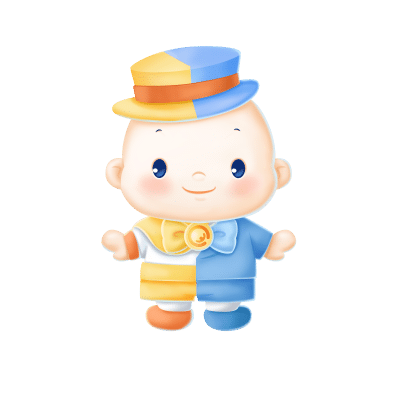
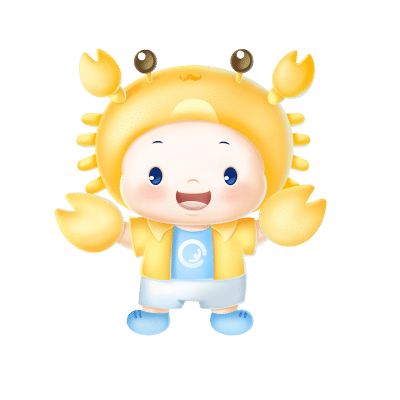
feat: 完善抽卡弹窗

Changed region(s): [[0.12, 0.09, 0.84, 0.84]]

diff --git a/src/components/Prize/index.jsx b/src/components/Prize/index.jsx
@@ -1,42 +1,87 @@
 import { useNavigate } from 'react-router-dom';
 
 import { NftCard, Btn } from '@/components';
+import { idMap, getIsRedpacket } from '@/components/const';
 
 import Poster from './Poster';
 
 import styles from './index.module.less';
 
-const Main = ({ isShare, index }) => {
-  if (isShare) {
-    return <Poster />;
-  }
-  return <NftCard index={12} />;
-};
+// 抽卡入口的卡片有分享，红包无分享
+// 兑换入口的龙卡无分享
 
-const Prize = ({ isShare }) => {
-  const navigate = useNavigate();
-
-  return (
-    <div className={styles.prize}>
-      <div className={styles.animation}>
-        <img className={styles.bg} src="/imgs/prize/bg.png" />
-        <div>
-          <img className={styles.star} src="/imgs/prize/star.png" alt="星星" />
-          <img className={styles.star} src="/imgs/prize/star.png" alt="星星" />
-          <img className={styles.star} src="/imgs/prize/star.png" alt="星星" />
-          <img className={styles.star} src="/imgs/prize/star.png" alt="星星" />
-        </div>
-      </div>
-      <div className={styles.main}>
+const Title = ({ id }) => {
+  if (id > 20) {
+    return (
+      <>
         <h1>恭喜获得</h1>
-        <h2>隐藏款龙年限定NFT丁丁</h2>
-        <Main isShare={isShare} index={2} />
+        <h2>{idMap[id]?.name}</h2>
+      </>
+    );
+  }
+  return <h1>恭喜获得{idMap[id]?.name || '默认星座'}</h1>;
+};
+const Main = ({ isShare, id }) => {
+  const isRedpacket = getIsRedpacket(id);
+
+  if (isShare && !isRedpacket) {
+    return (
+      <>
+        <Poster id={id} />
         <div className={styles.share}>
-          长按保存图片
+          长按上方保存图片
           <br />
           快和你的好友分享吧!
         </div>
-        <Btn onClick={() => navigate('/my')} fill>
+      </>
+    );
+  }
+
+  return <NftCard id={id} />;
+};
+const Animation = () => {
+  return (
+    <div className={styles.animation}>
+      <img className={styles.bg} src="/imgs/prize/bg.png" />
+      <div>
+        <img className={styles.star} src="/imgs/prize/star.png" alt="星星" />
+        <img className={styles.star} src="/imgs/prize/star.png" alt="星星" />
+        <img className={styles.star} src="/imgs/prize/star.png" alt="星星" />
+        <img className={styles.star} src="/imgs/prize/star.png" alt="星星" />
+      </div>
+    </div>
+  );
+};
+const Prize = ({ isShare, id, isMerge, children }) => {
+  const navigate = useNavigate();
+  const isRedpacket = getIsRedpacket(id);
+
+  return (
+    <div className={styles.prize}>
+      <Animation />
+      <div className={styles.main}>
+        <Title id={id} />
+
+        <Main isShare={isShare} id={id} />
+
+        {isRedpacket && (
+          <Btn
+            className={styles.btn}
+            onClick={() => {
+              console.log('红包封面地址：', idMap[i]?.url);
+            }}
+            fill
+          >
+            解锁红包封面
+          </Btn>
+        )}
+        {isMerge && (
+          <Btn className={styles.btn} onClick={() => {}} fill>
+            解锁龙年丁丁红包封面
+          </Btn>
+        )}
+        {children}
+        <Btn className={styles.btn} onClick={() => navigate('/my')} fill>
           我的保护力藏品
         </Btn>
       </div>

diff --git a/src/pages/My/Top.jsx b/src/pages/My/Top.jsx
@@ -1,15 +1,21 @@
+import { useEffect, useRef, useState } from 'react';
+
 import { ProgressCircle } from 'antd-mobile';
 
-import { Btn } from '@/components';
+import { Btn, Mask, Prize } from '@/components';
 
 import styles from './index.module.less';
 
-const Top = () => {
+const Top = ({ num = 11 }) => {
+  const [open, setOpen] = useState(false);
+  const [showRed, setShowRed] = useState(false);
+  const limitedNum = num > 12 ? 12 : num;
+
   return (
     <div className={styles.container}>
       <div className={styles.progressBar}>
         <ProgressCircle
-          percent={50}
+          percent={(limitedNum / 12) * 100}
           style={{
             '--size': '80px',
             '--track-width': '16px',
@@ -17,7 +23,7 @@ const Top = () => {
             '--fill-color': '#3383e3',
           }}
         >
-          <span className={styles.tips}>6/12</span>
+          <span className={styles.tips}>{limitedNum}/12</span>
         </ProgressCircle>
       </div>
       <div className={styles.textContainer}>
@@ -26,8 +32,33 @@ const Top = () => {
         <div>限定前100名合成保护力的用户获得封面红包</div>
       </div>
       <div className={styles.btn}>
-        <Btn>一键合成</Btn>
+        <Btn
+          disabled={num < 12}
+          onClick={() => {
+            console.log('一键合成');
+            setOpen(true);
+          }}
+        >
+          {/* 需判断是否已经合成,判断是否有龙卡 ，提示已有隐藏款*/}
+          一键合成
+        </Btn>
       </div>
+      <Mask open={open} afterClose={() => setOpen(false)}>
+        {!showRed ? (
+          <Prize id={101}>
+            <Btn
+              onClick={() => {
+                setShowRed(true);
+              }}
+              fill
+            >
+              解锁龙年丁丁红包封面
+            </Btn>
+          </Prize>
+        ) : (
+          <Prize id={202} />
+        )}
+      </Mask>
     </div>
   );
 };

diff --git a/src/pages/Summon/List.jsx b/src/pages/Summon/List.jsx
@@ -1,26 +1,11 @@
 import { useState } from 'react';
 
+import { nameList } from '@/components/const';
 import Mask from '@/components/Mask';
 
 import Cards from './Cards';
 
 import styles from './index.module.less';
-
-export const nameList = [
-  '白羊座',
-  '金牛座',
-  '双子座',
-  '巨蟹座',
-  '狮子座',
-  '处女座',
-  '天秤座',
-  '天蝎座',
-  '射手座',
-  '摩羯座',
-  '水瓶座',
-  '双鱼座',
-  '隐藏款',
-];
 
 const List = () => {
   const [cardIndex, setCardIndex] = useState(0);
@@ -45,7 +30,7 @@ const List = () => {
               key={index}
               onClick={() => handleClick(index)}
             >
-              <img src={`/imgs/dolls/${index + 1}.png`} alt={nameList[index]} />
+              <img src={`/imgs/dolls/${index}.png`} alt={nameList[index]} />
               <p>{nameList[index]}</p>
             </div>
           ))}

diff --git a/src/components/const.js b/src/components/const.js
@@ -1,0 +1,34 @@
+export const idMap = {
+  0: { name: '白羊座' },
+  1: { name: '金牛座' },
+  2: { name: '双子座' },
+  3: { name: '巨蟹座' },
+  4: { name: '狮子座' },
+  5: { name: '处女座' },
+  6: { name: '天秤座' },
+  7: { name: '天蝎座' },
+  8: { name: '射手座' },
+  9: { name: '摩羯座' },
+  10: { name: '水瓶座' },
+  11: { name: '双鱼座' },
+  101: { name: '隐藏款龙年限定NFT丁丁' },
+  201: { name: '限定红包封面', url: '1111' },
+  202: { name: '隐藏款龙年限定红包封面', url: '2222' },
+};
+
+export const nameList = [
+  '白羊座',
+  '金牛座',
+  '双子座',
+  '巨蟹座',
+  '狮子座',
+  '处女座',
+  '天秤座',
+  '天蝎座',
+  '射手座',
+  '摩羯座',
+  '水瓶座',
+  '双鱼座',
+  '隐藏款',
+];
+export const getIsRedpacket = (id) => [201, 202].includes(id);

diff --git a/src/pages/Summon/Cards.jsx b/src/pages/Summon/Cards.jsx
@@ -4,8 +4,8 @@ import BScroll from '@better-scroll/core';
 import ScrollBar from '@better-scroll/scroll-bar';
 
 import { NftCard } from '@/components';
+import { nameList } from '@/components/const';
 
-import { nameList } from './List';
 import SummonBtn from './SummonBtn';
 
 import styles from './index.module.less';
@@ -39,8 +39,8 @@ const Cards = ({ index }) => {
         <div className={styles.cardImgs}>
           {nameList.map((i, index) => (
             <div className={styles.cardItem} key={index} ref={getRef}>
-              <NftCard index={index} />
-              <div>{nameList[index]}</div>
+              <NftCard id={index} />
+              <p>{nameList[index]}</p>
             </div>
           ))}
         </div>

diff --git a/src/components/Prize/Poster.jsx b/src/components/Prize/Poster.jsx
@@ -6,7 +6,7 @@ import { NftCard } from '@/components';
 
 import styles from './index.module.less';
 
-const PosterComponent = ({ img }) => {
+const PosterComponent = ({ id }) => {
   const posterRef = useRef(null);
   const imageContainerRef = useRef(null);
   const generatePoster = async () => {
@@ -40,7 +40,7 @@ const PosterComponent = ({ img }) => {
   return (
     <div className={styles.posterBox} ref={imageContainerRef}>
       <div ref={posterRef} className={styles.poster}>
-        <NftCard index={0} />
+        <NftCard id={id} />
         <div className={styles.qrCode}>
           <p>
             扫码查看详情

diff --git a/src/components/index.module.less b/src/components/index.module.less
@@ -16,12 +16,6 @@
     background-size: 100% auto;
   }
 
-  &.disabled {
-    .btnEle {
-      background-image: url("/imgs/btnBg_disabled.png");
-    }
-  }
-
   .btnText {
     position: absolute;
     top: 0;
@@ -31,5 +25,12 @@
     display: flex;
     align-items: center;
     justify-content: center;
+  }
+
+  &.disabled {
+    .btnEle {
+      cursor: not-allowed;
+      background-image: url("/imgs/btnBg_disabled.png");
+    }
   }
 }

diff --git a/src/components/index.jsx b/src/components/index.jsx
@@ -25,9 +25,9 @@ export const Btn = ({
 }) => {
   return (
     <div
-      className={`${styles.btn} ${fill && styles.fill} ${
-        disabled && styles.disabled
-      }`}
+      className={`${styles.btn} ${className ? className : ''} ${
+        fill ? styles.fill : ''
+      } ${disabled ? styles.disabled : ''}`}
       onClick={disabled ? null : onClick}
       {...rest}
     >

diff --git a/src/components/NftCard/index.jsx b/src/components/NftCard/index.jsx
@@ -1,10 +1,10 @@
 import styles from './index.module.less';
 
-const NftCard = ({ index }) => {
+const NftCard = ({ id }) => {
   return (
     <div className={styles.cardBox}>
       <div className={styles.main}>
-        <img src={`/imgs/cards/${index + 1}.jpg`} />
+        <img src={`/imgs/cards/${id}.jpg`} />
       </div>
     </div>
   );

diff --git a/src/pages/Exchange/index.jsx b/src/pages/Exchange/index.jsx
@@ -54,7 +54,7 @@ const Exchange = () => {
         <div className={styles.btn} onClick={handleSummon}></div>
         <UserPoints />
         <Mask open={open} afterClose={() => setOpen(false)}>
-          <Prize />
+          <Prize id={101} />
         </Mask>
       </div>
     </div>

diff --git a/src/pages/My/Main.jsx b/src/pages/My/Main.jsx
@@ -30,7 +30,7 @@ const Main = () => {
                   navigate('/detail/' + (+index + 1));
                 }}
               >
-                <NftCard index={2} />
+                <NftCard id={2} />
               </div>
             </Swiper.Item>
           ))}

diff --git a/src/pages/Summon/SummonBtn.jsx b/src/pages/Summon/SummonBtn.jsx
@@ -77,7 +77,7 @@ const SummonBtn = ({ inMask }) => {
           console.log('afterShow');
         }}
       >
-        <Prize isShare />
+        <Prize isShare id={3} />
       </Mask>
     </div>
   );
